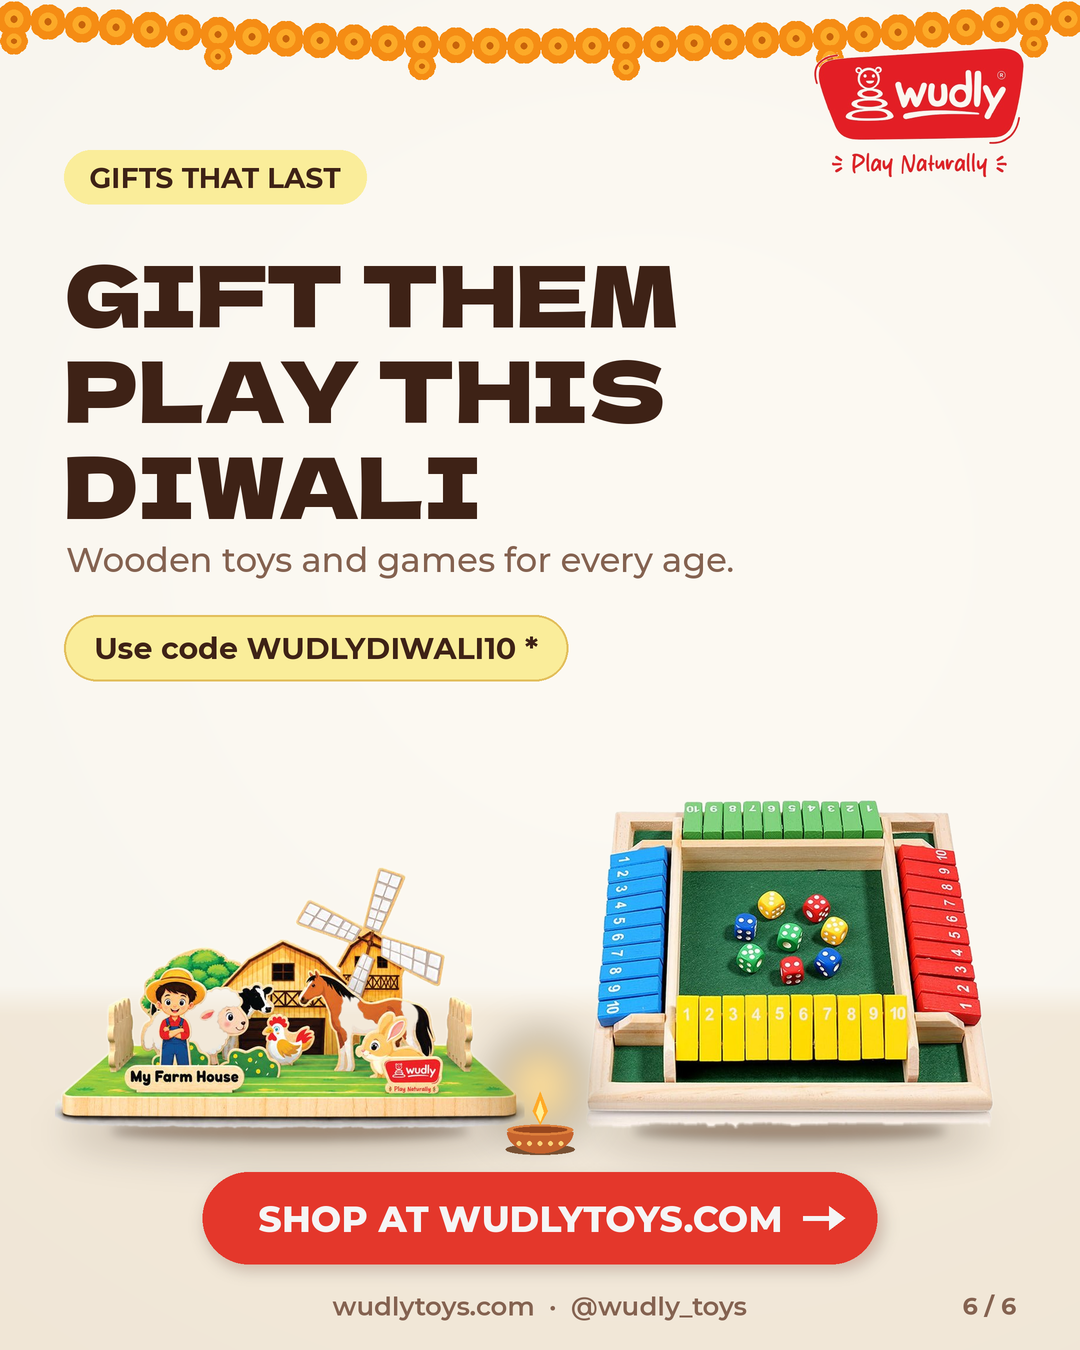
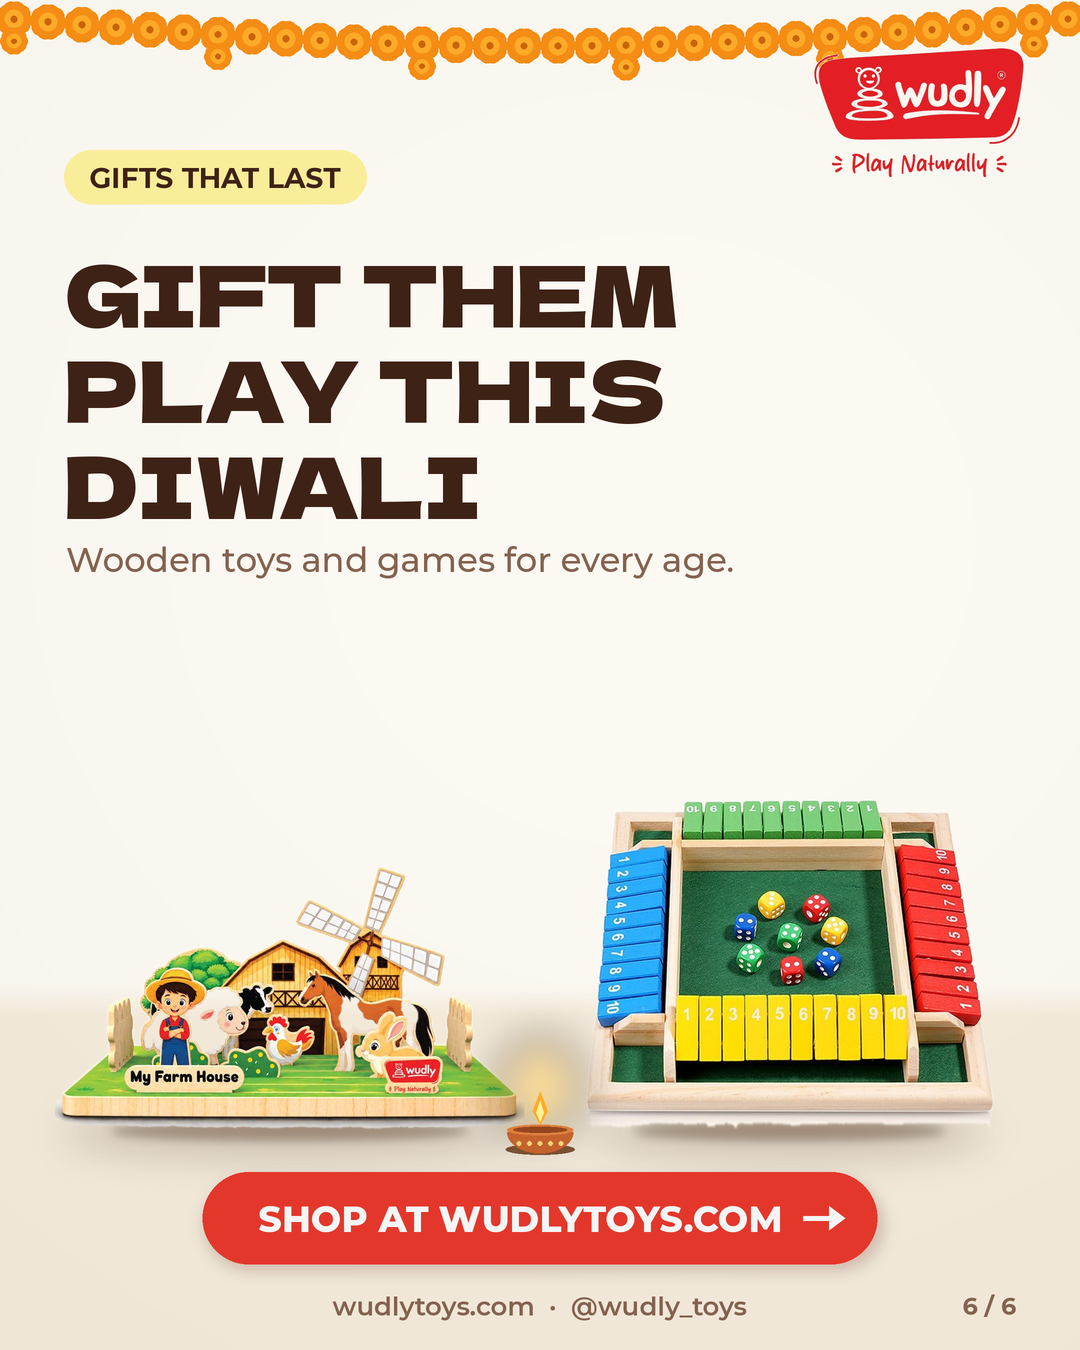
Diwali carousel: remove discount code
Claude-Session: https://claude.ai/code/session_01T8B4c7Nt5oJX9k9ooLvdZU

Changed region(s): [[0.0611, 0.4356, 0.55, 0.5289]]

diff --git a/festive-posts/carousels/diwali-bhai-dooj-captions.md b/festive-posts/carousels/diwali-bhai-dooj-captions.md
@@ -11,7 +11,7 @@ Save this for your Diwali shopping 🔖
 🛒 wudlytoys.com | Amazon.in
 #WudlyToys #HappyDiwali #DiwaliGifts #DiwaliWithWudly #WoodenToys #GiftsForKids #PlayNaturally
 
-⚠ Slide 6 shows "Use code WUDLYDIWALI10 *" – **placeholder**. Confirm the code/discount with the client, or remove the line before posting.
+No discount code on the slides.
 
 ## 2. Bhai Dooj Gifts (6 slides) – post 9 or 10 Nov
 Folder: `festive-posts/carousels/bhai-dooj-gifts/`
